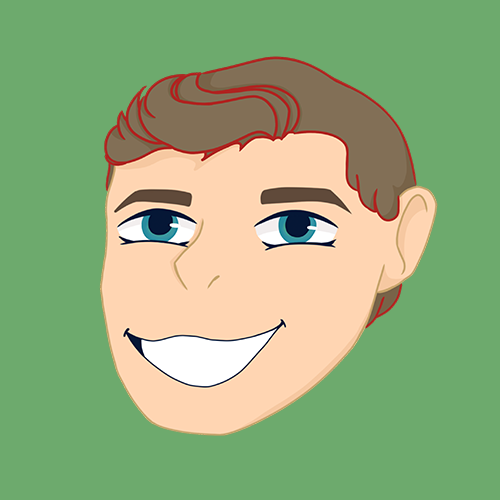
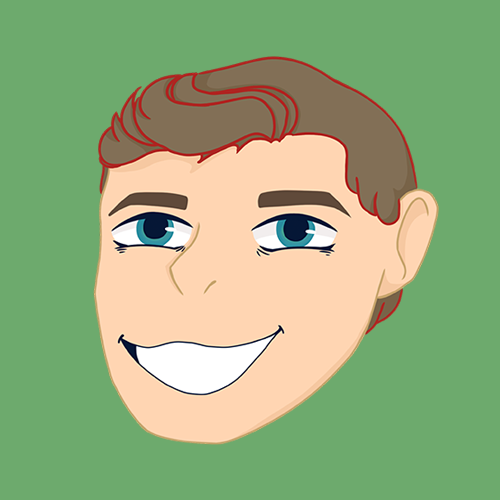
Update team images

diff --git a/about/index.html b/about/index.html
@@ -108,7 +108,7 @@
             <p>Ryan yells at people to get Academus.</p>
           </div>
           <div class="col span_1_of_3 team-member">
-            <img class="team-pic" src="/img/team/placeholder.png"></img>
+            <img class="team-pic" src="/img/team/justin.png"></img>
             <h3>Justin Van Velzer</h3>
             <h4>Marketing</h4>
             <p>Justin is a 17 year old marketer, as well as economic and networking enthusiast.</p>
